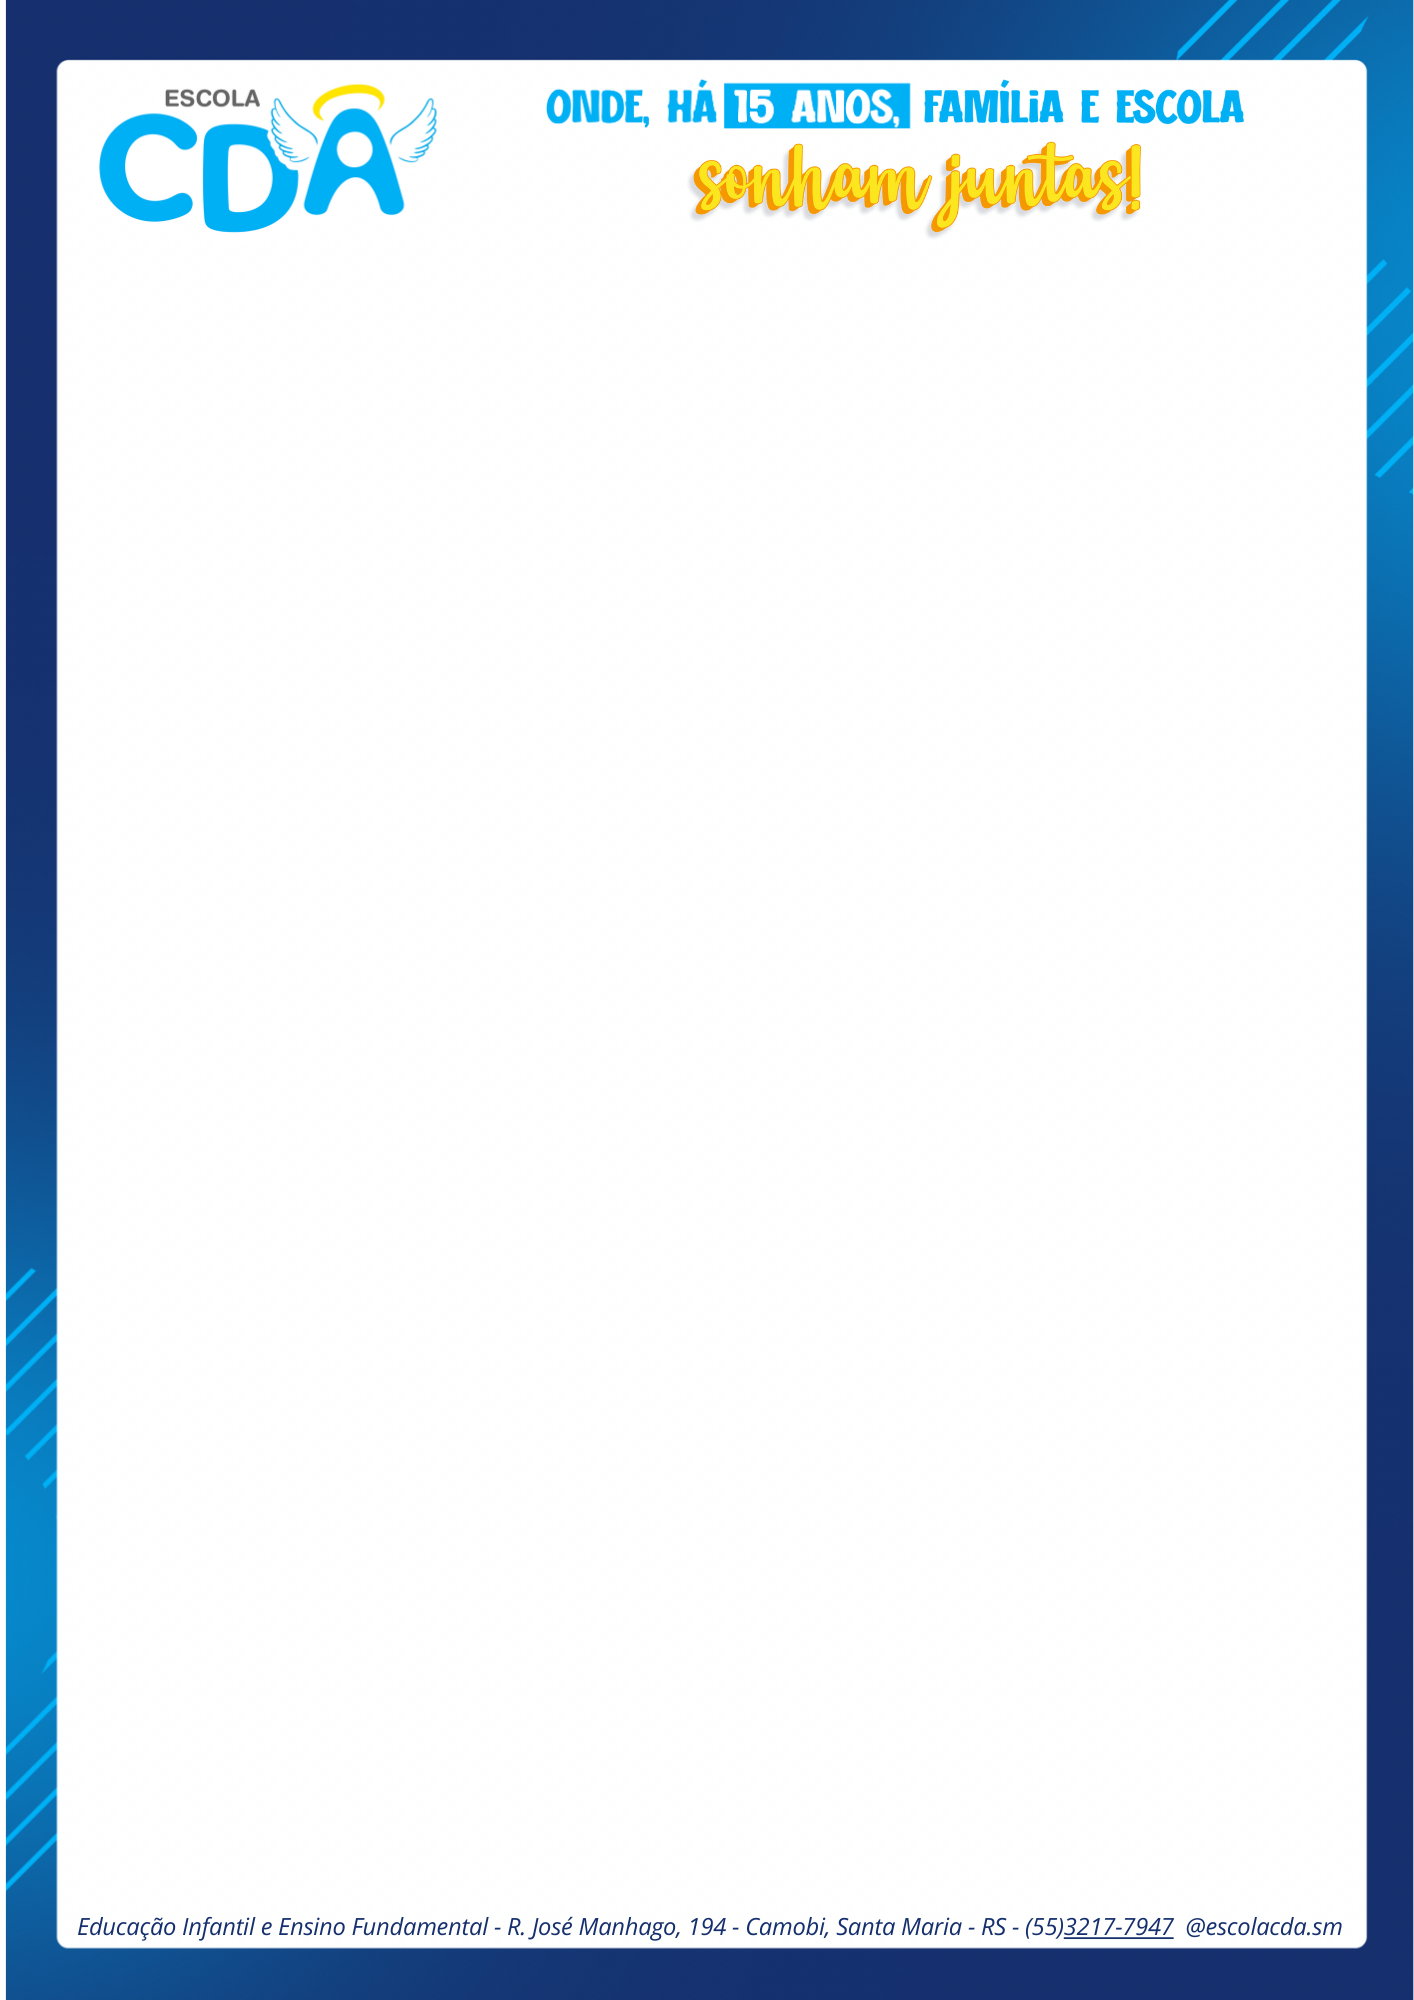
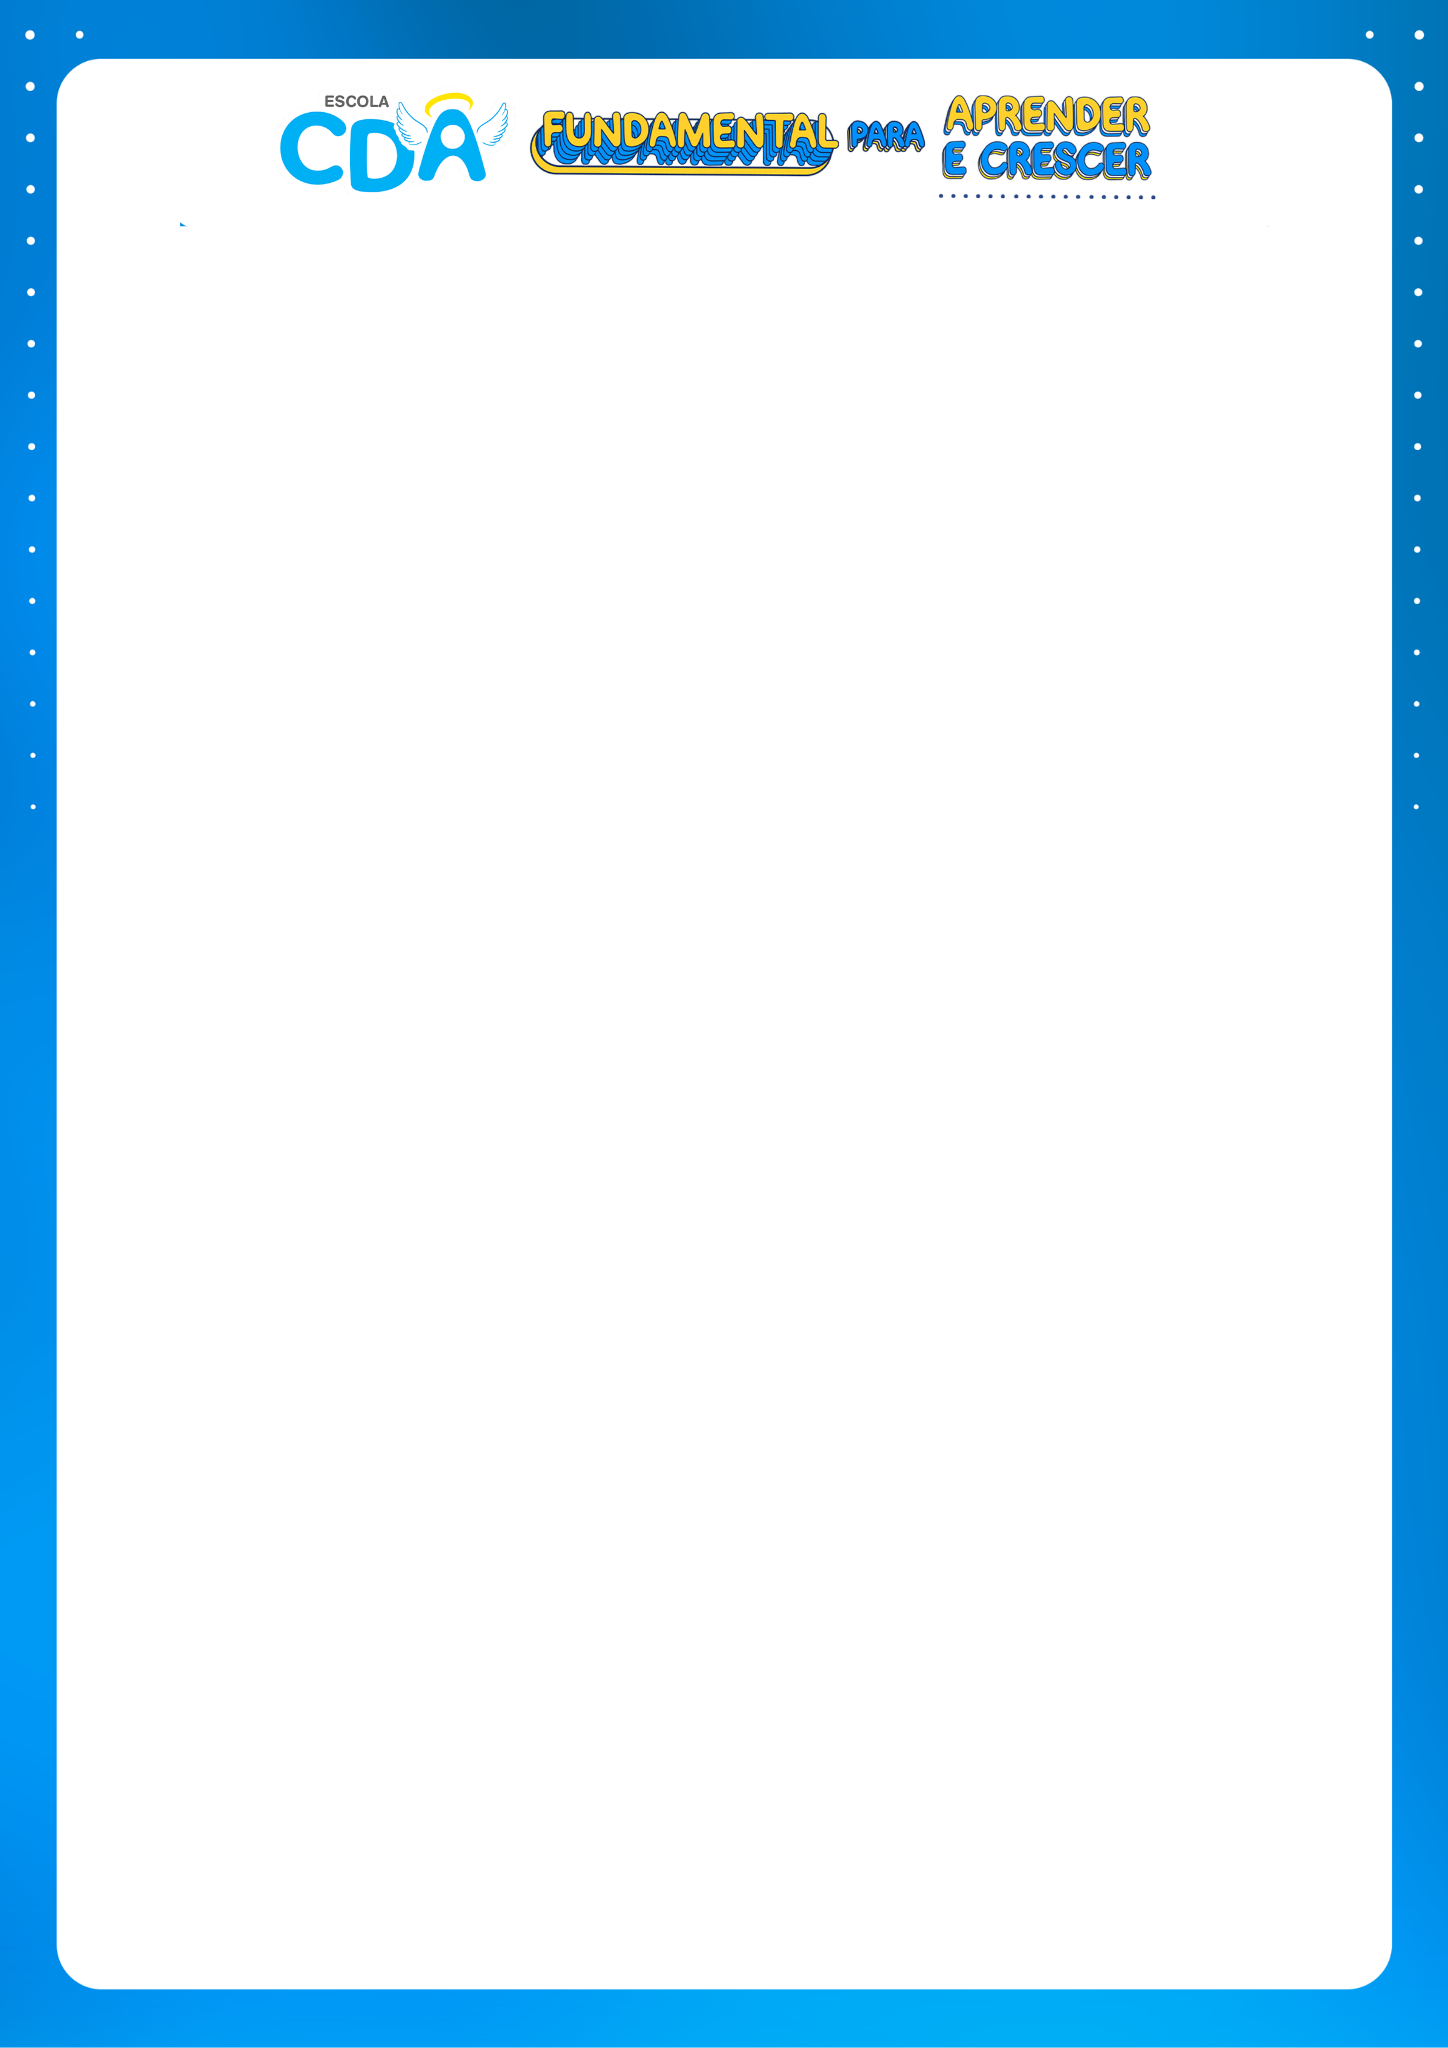
Troca papel timbrado (nova campanha) e recoloca endereco/telefone como texto

Changed region(s): [[0.0, 0.0, 1.0, 1.0]]

diff --git a/lib/gerarFichaMatriculaPdf.ts b/lib/gerarFichaMatriculaPdf.ts
@@ -66,6 +66,10 @@ const PRETO = rgb(0, 0, 0);
 const LARGURA = 595;
 const ALTURA = 842; // A4
 const MARGEM = 54;
+// O timbrado novo (pedido do dono da escola, ago/2026) não tem mais o rodapé com
+// endereço/telefone/@ desenhado na própria imagem — esse texto é desenhado aqui por
+// cima do fundo agora, pra essa informação não sumir dos documentos.
+const TEXTO_RODAPE = "Educação Infantil e Ensino Fundamental  ·  R. José Manhago, 194 - Camobi, Santa Maria - RS  ·  (55) 3217-7947  ·  @escolacda.sm";
 // O papel timbrado já tem a faixa do cabeçalho (logo) e o rodapé (endereço/telefone) desenhados
 // na imagem de fundo — o conteúdo precisa ficar dentro da área branca, sem sobrepor essas faixas.
 const TOPO_CONTEUDO = ALTURA - 125;
@@ -96,6 +100,9 @@ export async function gerarFichaMatriculaPdf(d: DadosFichaMatricula): Promise<st
     // exportado do Word) — desenha um pouco maior/deslocado à esquerda pra empurrar essa tira
     // branca pra fora da página, sem distorcer o resto (a borda direita fica intacta).
     if (fundo) p.drawImage(fundo, { x: -4, y: 0, width: LARGURA + 4, height: ALTURA });
+    const tamanhoRodape = 7;
+    const larguraRodape = fonte.widthOfTextAtSize(TEXTO_RODAPE, tamanhoRodape);
+    p.drawText(TEXTO_RODAPE, { x: (LARGURA - larguraRodape) / 2, y: 24, size: tamanhoRodape, font: fonte, color: CINZA });
   }
 
   let pagina = pdf.addPage([LARGURA, ALTURA]);

diff --git a/lib/gerarContratoPdf.ts b/lib/gerarContratoPdf.ts
@@ -34,6 +34,10 @@ const PRETO = rgb(0, 0, 0);
 const LARGURA = 595;
 const ALTURA = 842; // A4
 const MARGEM = 54;
+// O timbrado novo (pedido do dono da escola, ago/2026) não tem mais o rodapé com
+// endereço/telefone/@ desenhado na própria imagem — esse texto é desenhado aqui por
+// cima do fundo agora, pra essa informação não sumir dos documentos.
+const TEXTO_RODAPE = "Educação Infantil e Ensino Fundamental  ·  R. José Manhago, 194 - Camobi, Santa Maria - RS  ·  (55) 3217-7947  ·  @escolacda.sm";
 // O papel timbrado (mesmo arquivo usado na Ficha de Matrícula) já traz o cabeçalho com logo e o
 // rodapé com endereço/telefone desenhados na imagem — o conteúdo entra só na área branca do meio.
 const TOPO_CONTEUDO = ALTURA - 130;
@@ -60,6 +64,9 @@ export async function gerarContratoPdf(dados: DadosContrato): Promise<string> {
     // Overscan de 4pt à esquerda: o PNG tem uma sobra branca de uns px só nesse lado
     // (artefato da exportação original), empurra ela pra fora da página.
     if (fundo) p.drawImage(fundo, { x: -4, y: 0, width: LARGURA + 4, height: ALTURA });
+    const tamanhoRodape = 7;
+    const larguraRodape = fonte.widthOfTextAtSize(TEXTO_RODAPE, tamanhoRodape);
+    p.drawText(TEXTO_RODAPE, { x: (LARGURA - larguraRodape) / 2, y: 24, size: tamanhoRodape, font: fonte, color: CINZA });
   }
 
   let pagina = pdf.addPage([LARGURA, ALTURA]);

diff --git a/lib/gerarFichaAdmissaoPdf.ts b/lib/gerarFichaAdmissaoPdf.ts
@@ -16,6 +16,10 @@ const PRETO = rgb(0, 0, 0);
 const LARGURA = 595;
 const ALTURA = 842;
 const MARGEM = 48;
+// O timbrado novo (pedido do dono da escola, ago/2026) não tem mais o rodapé com
+// endereço/telefone/@ desenhado na própria imagem — esse texto é desenhado aqui por
+// cima do fundo agora, pra essa informação não sumir dos documentos.
+const TEXTO_RODAPE = "Educação Infantil e Ensino Fundamental  ·  R. José Manhago, 194 - Camobi, Santa Maria - RS  ·  (55) 3217-7947  ·  @escolacda.sm";
 const TOPO_CONTEUDO = ALTURA - 130;
 const RODAPE = 45;
 const LARGURA_UTIL = LARGURA - MARGEM * 2;
@@ -37,6 +41,11 @@ export async function gerarFichaAdmissaoPdf(): Promise<string> {
 
   const pagina = pdf.addPage([LARGURA, ALTURA]);
   if (fundo) pagina.drawImage(fundo, { x: -4, y: 0, width: LARGURA + 4, height: ALTURA });
+  {
+    const tamanhoRodape = 7;
+    const larguraRodape = fonte.widthOfTextAtSize(TEXTO_RODAPE, tamanhoRodape);
+    pagina.drawText(TEXTO_RODAPE, { x: (LARGURA - larguraRodape) / 2, y: 24, size: tamanhoRodape, font: fonte, color: CINZA });
+  }
   let y = TOPO_CONTEUDO;
 
   function tituloSecao(texto: string) {

diff --git a/lib/gerarAvaliacaoEscritaPdf.ts b/lib/gerarAvaliacaoEscritaPdf.ts
@@ -16,6 +16,10 @@ const AZUL_BORDA = rgb(0x00 / 255, 0xaf / 255, 0xef / 255);
 const LARGURA = 595;
 const ALTURA = 842;
 const MARGEM = 54;
+// O timbrado novo (pedido do dono da escola, ago/2026) não tem mais o rodapé com
+// endereço/telefone/@ desenhado na própria imagem — esse texto é desenhado aqui por
+// cima do fundo agora, pra essa informação não sumir dos documentos.
+const TEXTO_RODAPE = "Educação Infantil e Ensino Fundamental  ·  R. José Manhago, 194 - Camobi, Santa Maria - RS  ·  (55) 3217-7947  ·  @escolacda.sm";
 const TOPO_CONTEUDO = ALTURA - 125;
 const RODAPE = 45;
 const LARGURA_UTIL = LARGURA - MARGEM * 2;
@@ -82,6 +86,9 @@ export async function gerarAvaliacaoEscritaPdf(): Promise<string> {
 
   function desenharFundo(p: PDFPage) {
     if (fundo) p.drawImage(fundo, { x: -4, y: 0, width: LARGURA + 4, height: ALTURA });
+    const tamanhoRodape = 7;
+    const larguraRodape = fonte.widthOfTextAtSize(TEXTO_RODAPE, tamanhoRodape);
+    p.drawText(TEXTO_RODAPE, { x: (LARGURA - larguraRodape) / 2, y: 24, size: tamanhoRodape, font: fonte, color: CINZA });
   }
 
   let pagina = pdf.addPage([LARGURA, ALTURA]);
